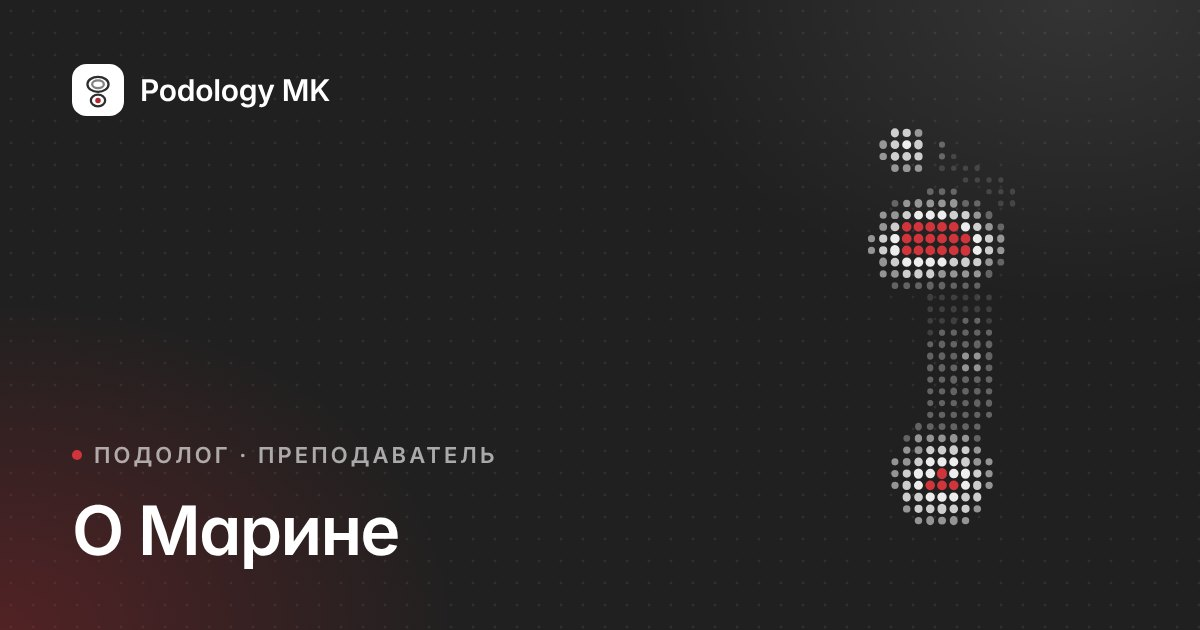
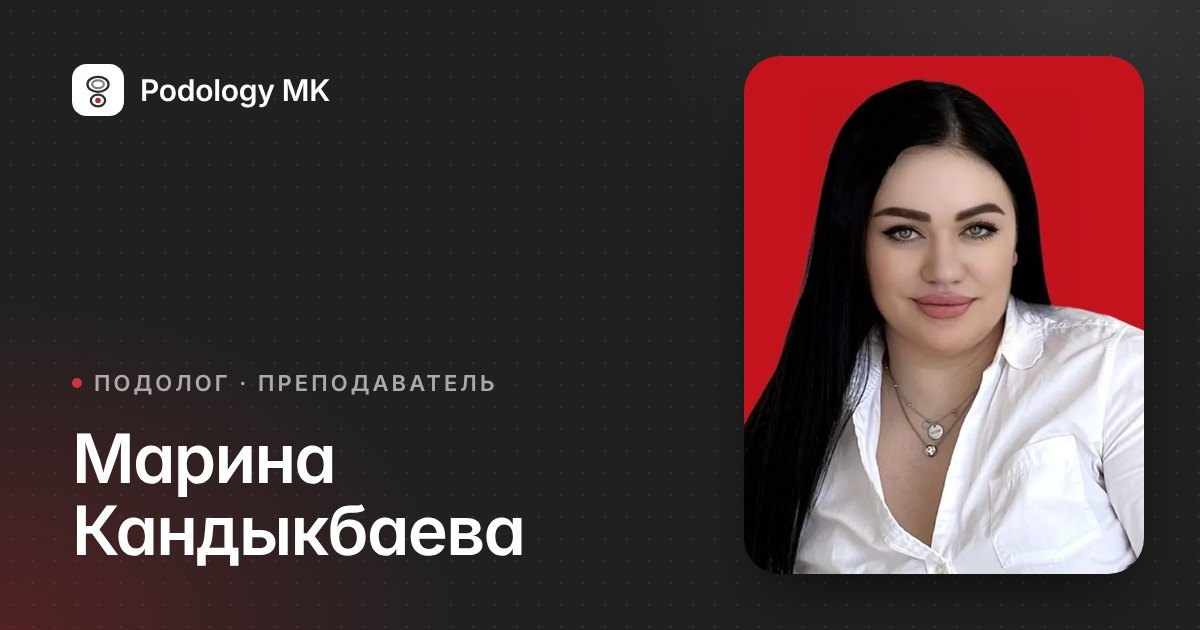
Add Marina's portrait and work photo; show her full name
- Portrait (red background, matches the brand accent) on the home
  «О Марине» section, /about and the instructor card on course pages.
- Work photo (scrubs, mask, gloves) on the home centre block and the
  /center hero until photos of the centre itself exist.
- Full name «Марина Кандыкбаева» from the centre signage and Telegram;
  enables Person JSON-LD on /about.
- Hero keeps the live pressure map (no portrait there).
- 900 px WebP (26 KB + 37 KB) so the lazy photos don't slow the home page.
- /about share card regenerated with the portrait and her name.

Claude-Session: https://claude.ai/code/session_01QUeAApq6UGaXxe3qGEhGxX

diff --git a/src/data/founder.ts b/src/data/founder.ts
@@ -5,13 +5,25 @@ import type { ImageAsset } from "./types";
  * cannot be confirmed with documents — empty lists are simply hidden.
  */
 export const founder = {
-  // ЗАПОЛНИТЬ: имя и фамилия основателя.
-  name: null as string | null,
+  // Подтверждено вывеской центра («Центр подологии Марины Кандыкбаевой») и Telegram @marina_kandykbayeva.
+  name: "Марина Кандыкбаева" as string | null,
   role: "Подолог, преподаватель, основатель центра подологии",
   // ЗАПОЛНИТЬ: опыт в годах (число). null — блок не показывается.
   yearsOfExperience: null as number | null,
-  // ЗАПОЛНИТЬ: портрет 4:5, не менее 1200×1500 px. Положите файл в /public/images/founder/.
-  portrait: null as ImageAsset | null,
+  // Портрет (квадрат, лицо по центру): главная, /about, карточка преподавателя на странице курса.
+  portrait: {
+    src: "/images/founder/marina-kandykbayeva.webp",
+    alt: "Марина Кандыкбаева — подолог и преподаватель",
+    width: 900,
+    height: 900,
+  } as ImageAsset | null,
+  // Рабочее фото (форма, маска, перчатки): блок центра, пока нет фотографий самого центра.
+  practicePhoto: {
+    src: "/images/founder/marina-kandykbayeva-practice.webp",
+    alt: "Марина Кандыкбаева в рабочей форме, маске и перчатках",
+    width: 900,
+    height: 1099,
+  } as ImageAsset | null,
 
   // ЗАПОЛНИТЬ (проверить): краткое вступление. Две части, чтобы главная и /about
   // не повторяли друг друга: `summary` — на главной, `intro` — на /about.
@@ -42,7 +54,7 @@ export const founder = {
   certificateImages: [] as ImageAsset[],
 };
 
-/** First name only until the full name is supplied (the site already says «О Марине»). */
+/** Full name when known, otherwise the first name the site already uses («О Марине»). */
 export function founderDisplayName() {
   return founder.name ?? "Марина";
 }

diff --git a/src/components/sections/home/hero.tsx b/src/components/sections/home/hero.tsx
@@ -1,5 +1,4 @@
 import { MapPin } from "lucide-react";
-import { founder } from "@/data/founder";
 import { locations, site } from "@/data/site";
 import { plural } from "@/lib/utils";
 import { Container } from "@/components/ui/container";
@@ -73,15 +72,15 @@ export function Hero() {
                 className="hero-reveal grain aspect-[4/3.2] rounded-panel bg-graphite shadow-float sm:aspect-[16/11] lg:aspect-[4/5]"
                 distance={24}
               >
+                {/* the live pressure map stays the hero; Marina's portrait leads her own section */}
                 <Visual
-                  image={founder.portrait}
+                  image={null}
                   tone="dark"
                   art="feet"
                   live
                   seed={7}
                   priority
                   className="h-full w-full"
-                  imgClassName="object-[50%_20%]"
                   sizes="(min-width: 1024px) 40vw, 100vw"
                 >
                   {/* static light: the living pressure map is this viewport's one ambient motion */}

diff --git a/src/components/sections/home/center-teaser.tsx b/src/components/sections/home/center-teaser.tsx
@@ -1,6 +1,7 @@
 import Link from "next/link";
 import { ArrowRight } from "lucide-react";
 import { center, services } from "@/data/center";
+import { founder } from "@/data/founder";
 import { Container } from "@/components/ui/container";
 import { Eyebrow } from "@/components/ui/typography";
 import { Parallax } from "@/components/ui/parallax";
@@ -18,11 +19,12 @@ export function CenterTeaser() {
           <Reveal className="order-2 lg:order-1 lg:col-span-6">
             <Parallax className="aspect-[16/10] rounded-panel bg-sand shadow-card lg:aspect-[5/6]" distance={30}>
               <Visual
-                image={center.gallery[0]}
+                image={center.gallery[0] ?? founder.practicePhoto}
                 seed={21}
                 tone="sand"
                 art="pressure"
                 className="h-full w-full"
+                imgClassName="object-[50%_25%]"
                 sizes="(min-width: 1024px) 50vw, 100vw"
               />
             </Parallax>

diff --git a/src/app/courses/[slug]/page.tsx b/src/app/courses/[slug]/page.tsx
@@ -294,7 +294,7 @@ export default async function CoursePage({ params }: Props) {
                   href="/about"
                   className="group mt-8 flex items-center gap-5 rounded-card border border-line p-4 transition-[border-color,box-shadow] duration-300 hover:border-transparent hover:shadow-lift sm:p-5"
                 >
-                  <Visual image={founder.portrait} tone="dark" seed={7} marker={false} className="size-20 shrink-0 rounded-2xl sm:size-24" sizes="96px" />
+                  <Visual image={founder.portrait} tone="dark" seed={7} marker={false} className="size-20 shrink-0 rounded-2xl sm:size-24" imgClassName="object-[50%_30%]" sizes="96px" />
                   <div className="min-w-0 flex-1">
                     <p className="text-lg font-semibold">{founderDisplayName()}</p>
                     <p className="mt-1 text-[0.9375rem] text-muted">{founder.role}</p>

diff --git a/src/app/center/page.tsx b/src/app/center/page.tsx
@@ -1,6 +1,7 @@
 import type { Metadata } from "next";
 import { ShieldCheck } from "lucide-react";
 import { center, services, specialists } from "@/data/center";
+import { founder } from "@/data/founder";
 import { channels, locations, site, socialProfiles } from "@/data/site";
 import { absoluteUrl, jsonLd, pageMetadata } from "@/lib/seo";
 import { formatKzt } from "@/lib/utils";
@@ -53,10 +54,11 @@ export default function CenterPage() {
         lead={center.intro}
         aside={
           <Visual
-            image={center.gallery[0]}
+            image={center.gallery[0] ?? founder.practicePhoto}
             seed={21}
             priority
             className="aspect-[4/3] rounded-panel lg:aspect-[4/4.4]"
+            imgClassName="object-[50%_25%]"
             sizes="(min-width: 1024px) 40vw, 100vw"
           />
         }

diff --git a/src/components/sections/home/founder.tsx b/src/components/sections/home/founder.tsx
@@ -23,8 +23,12 @@ export function FounderSection() {
               tone="light"
               art="insole"
               seed={11}
-              className="media-settle relative aspect-[16/10] rounded-panel shadow-card sm:aspect-[16/9] lg:aspect-[4/5]"
-              imgClassName="object-[50%_20%]"
+              className={
+                founder.portrait
+                  ? "media-settle relative aspect-square rounded-panel shadow-card sm:aspect-[4/3] lg:aspect-[4/5]"
+                  : "media-settle relative aspect-[16/10] rounded-panel shadow-card sm:aspect-[16/9] lg:aspect-[4/5]"
+              }
+              imgClassName="object-[50%_30%]"
               sizes="(min-width: 1024px) 40vw, 100vw"
             />
           </Reveal>

diff --git a/src/app/about/page.tsx b/src/app/about/page.tsx
@@ -14,7 +14,7 @@ export const metadata: Metadata = pageMetadata({
   title: "О Марине",
   description: `${founderDisplayName()} — ${founder.role.toLowerCase()}. Подход к обучению.`,
   path: "/about",
-  image: founder.portrait?.src,
+  // share card public/og/about.jpg carries the portrait (scripts/generate-og.mjs)
 });
 
 export default function AboutPage() {

diff --git a/docs/content-audit.md b/docs/content-audit.md
@@ -87,7 +87,8 @@ Republic of Kazakhstan «О персональных данных и их защ
 
 Also required
 - **Lead delivery**: no provider is configured (Telegram / webhook / Resend, or `NEXT_PUBLIC_LEADS_ENDPOINT` for GitHub Pages). Forms honestly show the "not configured" fallback. Delivery was only tested against a local mock webhook; real delivery is **untested**.
-- **Marina**: full name, portrait, years of experience, qualifications, teaching experience; confirm the `summary`, `intro` and the three philosophy lines are her own words and approved (they are drafts marked «проверить»).
+- **Marina**: ~~full name, portrait~~ (added: «Марина Кандыкбаева», confirmed by the centre signage and Telegram; portrait and a work photo in `public/images/founder/`). Still needed: years of experience, qualifications, teaching experience; confirm the `summary`, `intro` and the three philosophy lines are her own words and approved (they are drafts marked «проверить»).
+- **Training photos**: group photos with graduates and certificates exist, but show other people — publish (`trainingPhotos` in `src/data/testimonials.ts`) only with the participants' consent.
 - **Courses**: all six are structural drafts — real titles, summaries, audiences, outcomes, curricula; confirmed format, duration, price, intakes, certificate; images. Cards/pages show a value only when it exists.
 - **Centre**: confirmed service list, prices, licences/legal status of services, working hours, branch phones, photographs, specialists.
 - **Branches**: which of the two 2GIS records belongs to which address is still unverified (both stay as neutral links on `/contacts`); the Акация branch has no map link.
